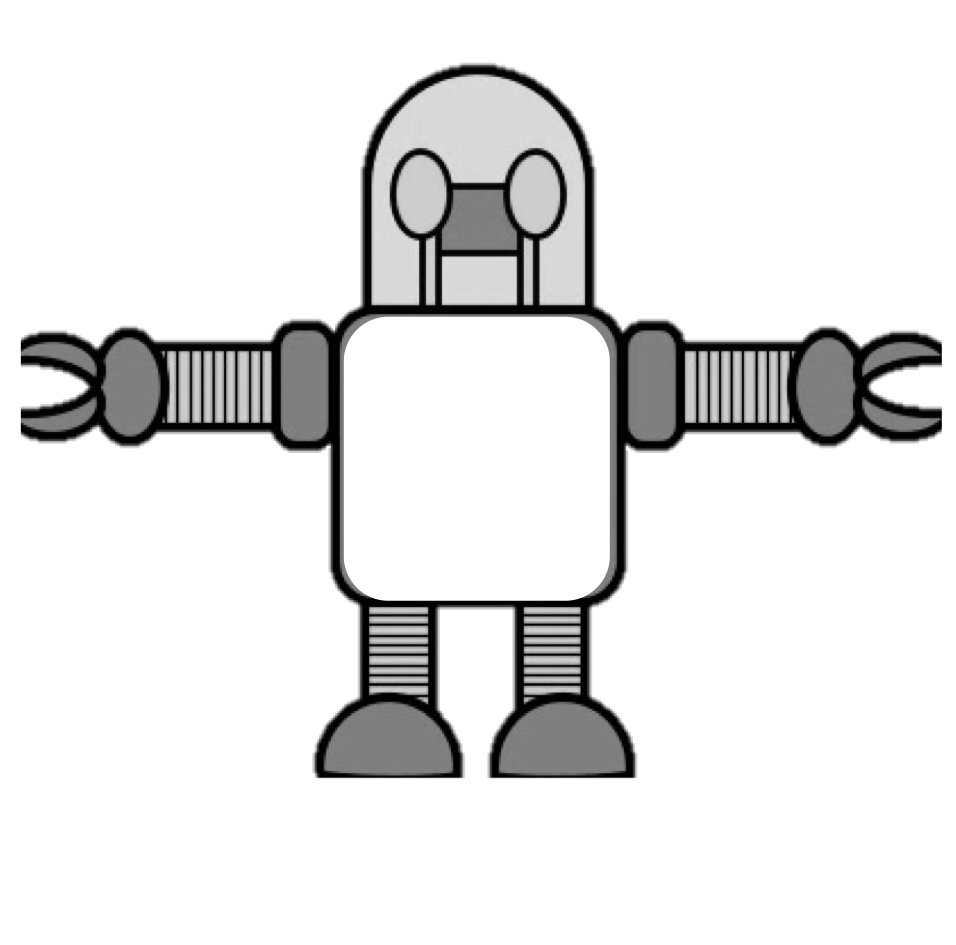
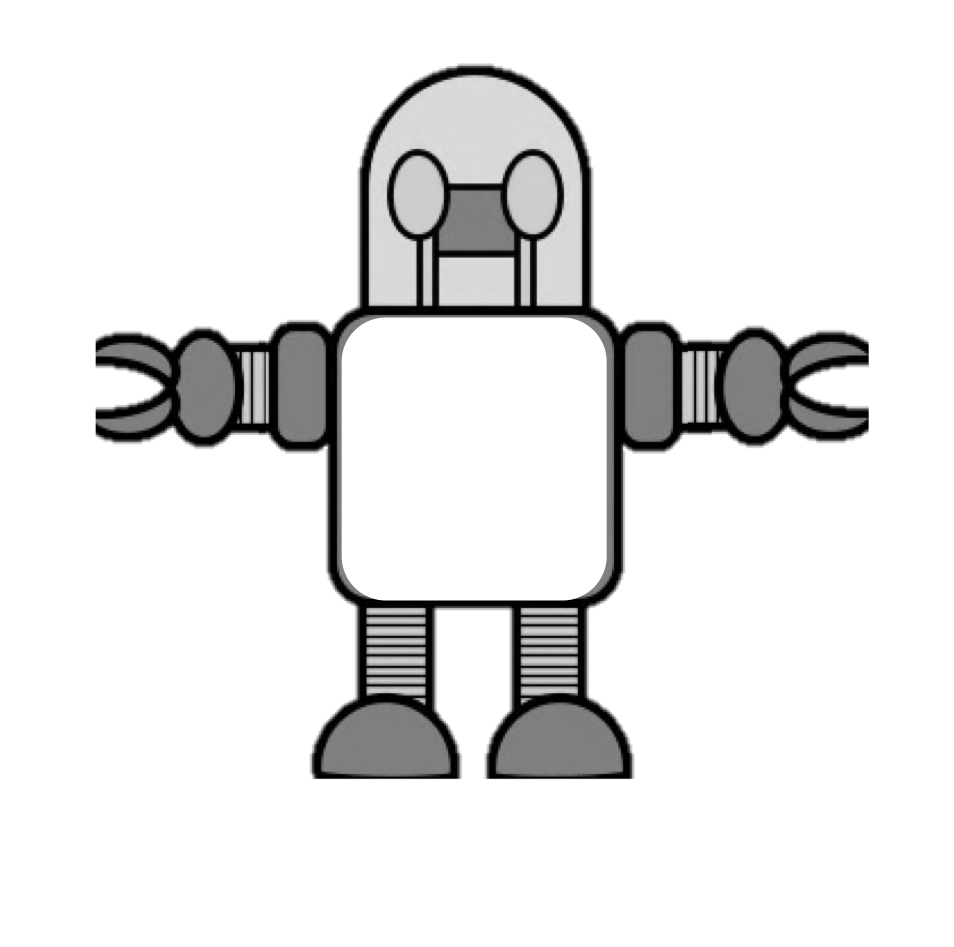
fix minor things in kids cue barrier

Changed region(s): [[0.304, 0.0614, 0.6688, 0.8286], [0.6992, 0.3376, 1.0, 0.491], [0.0, 0.3376, 0.304, 0.491]]

diff --git a/exp/kids/kids_cue_barrier3.css b/exp/kids/kids_cue_barrier3.css
@@ -27,7 +27,7 @@ input, select, button {font-family: Georgia, serif; font-size: 14px;}
 
 
 .background {
-	width: 1024px;
+	width: 1044px;
 	height: 660px;
     opacity: 0.3;
     z-index: -5
@@ -288,8 +288,8 @@ nextButton[disabled] {
 .selector_l {
     position: absolute;
     bottom: 180px;
-    left: 0px;
-    width: 420px;
+    left: 30px;
+    width: 355px;
     height: 500px;
     z-index: 3
 }
@@ -298,8 +298,8 @@ nextButton[disabled] {
 .selector_r {
     position: absolute;
     bottom: 180px;
-    left: 660px;
-    width: 420px;
+    left: 685px;
+    width: 355px;
     height: 500px;
     z-index: 3
 }

diff --git a/exp/kids/kids_cue_barrier6.js b/exp/kids/kids_cue_barrier6.js
@@ -750,7 +750,7 @@ if (experiment.targetSwitch[0] == "stay") {
               }, 1500)
                        });
 
-      }, 3000)  
+      }, 5000)  
   
 },
 

diff --git a/exp/kids/kids_cue_barrier6_control.js b/exp/kids/kids_cue_barrier6_control.js
@@ -739,7 +739,7 @@ if (experiment.targetSwitch[0] == "stay") {
               }, 1500)
                        });
 
-      }, 3000)  
+      }, 5000)  
   
 },
 
